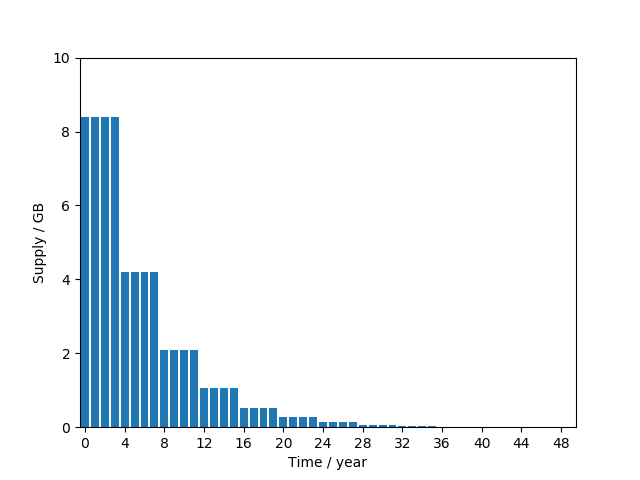
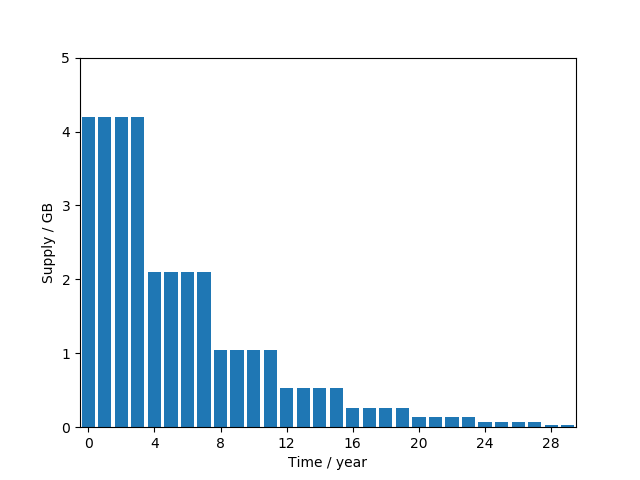
fix primary issuance numeric error, add comparison with bitcoin

Changed region(s): [[0.0312, 0.2188, 0.9062, 0.9375], [0.0938, 0.0938, 0.125, 0.125]]

diff --git a/demo.py b/demo.py
@@ -4,19 +4,19 @@ import numpy as np
 from matplotlib import pyplot as plt
 
 # data in billion
-INITIAL_SUPPLY = 33.6
-PRIMARY_SUPPLY_1STYEAR = 33.6 / 4
+INITIAL_SUPPLY = 33.6 * (1 - 0.25)  # burn 25%
+PRIMARY_SUPPLY_1STYEAR = 33.6 / 8
 SECONDARY_SUPPLY_YEARLY = 1.344
 HALFING_PERIOD = 4
 
-cut_off_year = 50
+cut_off_year = 30
 
 x = np.arange(0, cut_off_year)
 primary_issuance = PRIMARY_SUPPLY_1STYEAR * np.power(2, -np.floor(x/4))
 
-def _getMonthSupply(t_monthly):
+def _getMonthSupply(t_monthly, ssy = SECONDARY_SUPPLY_YEARLY):
     primary_issuance_monthly = PRIMARY_SUPPLY_1STYEAR * np.power(2, -np.floor(t_monthly/4)) / 12.
-    secondary_issuance_monthly = SECONDARY_SUPPLY_YEARLY / 12
+    secondary_issuance_monthly = ssy / 12
     total_supply_monthly = []
     for m in np.arange(0, len(t_monthly)):
         total_supply_monthly.append(INITIAL_SUPPLY + np.sum(primary_issuance_monthly[:m]) + m*secondary_issuance_monthly)
@@ -25,14 +25,14 @@ def _getMonthSupply(t_monthly):
 def Primary_Issuance():
     # 1st issuance
     plt.bar(x, primary_issuance)
-    plt.ylim((0, 10))
+    plt.ylim((0, 5))
     plt.xlim(( - 0.5, cut_off_year - 0.5))
     plt.xticks(np.arange(0, cut_off_year, 4))
     plt.xlabel('Time / year')
     plt.ylabel("Supply / GB")
     plt.show()
 
-def Inflation_Rate_Comparison():
+def Inflation_Rate_Comparison(draw = True):
     t_monthly = np.arange(0, cut_off_year, 1./12)
     (primary_issuance_monthly, secondary_issuance_monthly, total_supply_monthly) = _getMonthSupply(t_monthly)
     # Baseline of Annual Percentage of Compesation
@@ -41,44 +41,94 @@ def Inflation_Rate_Comparison():
     inflation_rate = (primary_issuance_monthly + secondary_issuance_monthly) / total_supply_monthly * 12
     inflation_rate = inflation_rate * 100
     real_inflation = inflation_rate - APC
-    # Nominal Inflation Rate 名义通胀率：当年总增发除以总发行
-    plt.plot(t_monthly, inflation_rate, "r-.", linewidth=0.8, label = 'Nominal Inflation Rate')
-    # Baseline of APC 基准补偿率：二级增发除以总发行
-    plt.plot(t_monthly, APC, "g-.", linewidth=0.8, label = 'Baseline of APC (Compensation in NervosDAO)')
-    # Real Inflation Rate 实际通胀率：一级增发除以总发行
-    plt.plot(t_monthly, real_inflation, "b", label = 'Real Inflation Rate')
-    plt.ylim((0, 35))
-    plt.xlim((0, cut_off_year))
-    plt.xticks(np.arange(0, cut_off_year, 4))
-    plt.legend(loc='upper right')
-    plt.xlabel('Time / year')
-    plt.ylabel("Interest / %")
-    plt.show()
+    if draw:
+        # Nominal Inflation Rate 名义通胀率：当年总增发除以总发行
+        plt.plot(t_monthly, inflation_rate, "r-.", linewidth=0.8, label = 'Nominal Inflation Rate')
+        # Baseline of APC 基准补偿率：二级增发除以总发行
+        plt.plot(t_monthly, APC, "g-.", linewidth=0.8, label = 'Nominal Compensation Rate')
+        # Real Inflation Rate 实际通胀率：一级增发除以总发行
+        plt.plot(t_monthly, real_inflation, "b", label = 'Real Inflation Rate')
+        plt.ylim((0, 25))
+        plt.xlim((0, cut_off_year))
+        plt.xticks(np.arange(0, cut_off_year, 4))
+        plt.legend(loc='upper right')
+        plt.xlabel('Time / year')
+        plt.ylabel("Interest / %")
+        plt.show()
+    return (inflation_rate, APC, real_inflation)
 
 # De Facto Hard Cap 
 '''
-    等效硬顶曲线:理论总发行量折算到0年的等效值
+    等效硬顶曲线:理论总发行量折算到创世块的等效值
 '''
-def deFacto_Hard_Cap():
+def deFacto_Hard_Cap(draw = True):
+    primary_hard_cap = INITIAL_SUPPLY + PRIMARY_SUPPLY_1STYEAR*4*2
     t_monthly = np.arange(0, cut_off_year, 1./12)
-    (primary_issuance_monthly, secondary_issuance_monthly, total_supply_monthly) = _getMonthSupply(t_monthly)
-    monthly_apc = (SECONDARY_SUPPLY_YEARLY/12.0) / total_supply_monthly
-    deFactoSupply = []
-    accumulated_interest = 1.0
-    index = 0
-    for supply in total_supply_monthly:
-        deFactoSupply.append(supply / accumulated_interest)
-        accumulated_interest *= (1 + monthly_apc[index])
-        index += 1
-    plt.plot(t_monthly, deFactoSupply)
-    plt.ylim((32, 100))
-    plt.xlim((0, cut_off_year))
+    if draw:
+        plt.plot((t_monthly[0], t_monthly[-1]), (primary_hard_cap, primary_hard_cap), 
+            color='gray', ls = "-." , lw=0.8, label = "Primary issuance hard cap")
+    deFactoSupply_array = []
+    for ssy_rate in (0, 0.25, 0.5, 1):
+        ssy = SECONDARY_SUPPLY_YEARLY * ssy_rate
+        (primary_issuance_monthly, secondary_issuance_monthly, total_supply_monthly) = _getMonthSupply(t_monthly, ssy)
+        monthly_apc = (ssy/12.0) / total_supply_monthly
+        pSupply = []
+        deFactoSupply = []
+        accumulated_interest = 1.0
+        index = 0
+        for supply in total_supply_monthly:
+            deFactoSupply.append(supply / accumulated_interest)
+            accumulated_interest *= (1 + monthly_apc[index])
+            index += 1
+        deFactoSupply_array.append(deFactoSupply)
+        if draw:
+            plt.plot(t_monthly, deFactoSupply, label = "Secondary issuance burn %d%%" % int(100 * (1.-ssy_rate)))
+    if draw:
+        plt.legend(loc='lower right')
+        plt.ylim(25, 60)
+        plt.xlim((0, cut_off_year))
+        plt.xticks(np.arange(0, cut_off_year, 4))
+        plt.xlabel('Time / year')
+        plt.ylabel("de Facto Supply / GB")
+        plt.show()
+    return deFactoSupply_array
+
+'''
+    和比特币的对比
+'''
+def VS_BTC():
+    # bitcoin calculation
+    btc_yearly = 0.5 / 4 * 100
+    t_monthly = np.arange(0, cut_off_year, 1./12)
+    btc_monthly = btc_yearly * np.power(2, -np.floor(t_monthly/4)) / 12.
+    btc_accumulation = []
+    for index in range(len(btc_monthly)):
+        btc_accumulation.append(np.sum(btc_monthly[:index]))
+    btc_accumulation = np.array(btc_accumulation)
+    inflation = btc_monthly / btc_accumulation * 100 * 12
+    inflation[0] = 10000
+
+    # ckb calculation
+    deFacto_supply = deFacto_Hard_Cap(False)[3]
+    deFacto_supply = deFacto_supply / np.max(deFacto_supply) * 100
+    real_inflation = Inflation_Rate_Comparison(False)[2]
+
+
+    plt.plot(t_monthly, inflation, '-.', label = "Bitcoin inflation rate")
+    plt.plot(t_monthly, btc_accumulation, '-.', label = "Bitcoin issuance")
+    plt.plot(t_monthly, real_inflation, label = "CKB deFacto inflation rate (no treasury burn)")
+    plt.plot(t_monthly, deFacto_supply, label = "CKB deFacto issuance")
+    plt.ylim(0, 100)
+    plt.xlim(0, cut_off_year)
     plt.xticks(np.arange(0, cut_off_year, 4))
+    plt.yticks(np.arange(0, 110, 10), [str(i) + "%" for i in np.arange(0, 110, 10)])
+    plt.legend(loc='center right')
     plt.xlabel('Time / year')
-    plt.ylabel("de Facto Supply / GB")
+    plt.ylabel("Inflaction rate or Issuance percentage")
     plt.show()
 
 if __name__ == "__main__":
     Primary_Issuance()
     Inflation_Rate_Comparison()
     deFacto_Hard_Cap()
+    VS_BTC()

diff --git a/README.md b/README.md
@@ -11,3 +11,7 @@
 ## de Facto Hard Cap
 
 ![img](./img/Figure_3.png)
+
+## Compared with Bitcoin Issuance Model
+
+![img](./img/Figure_4.png)
